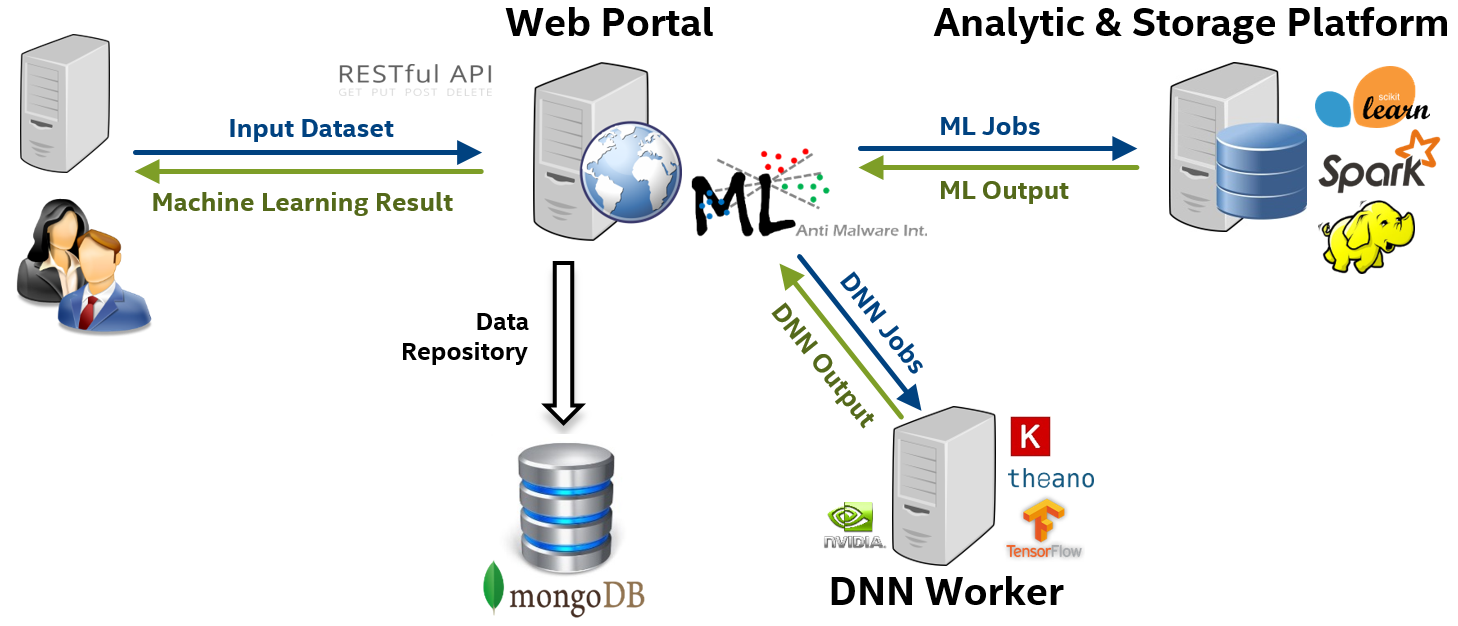
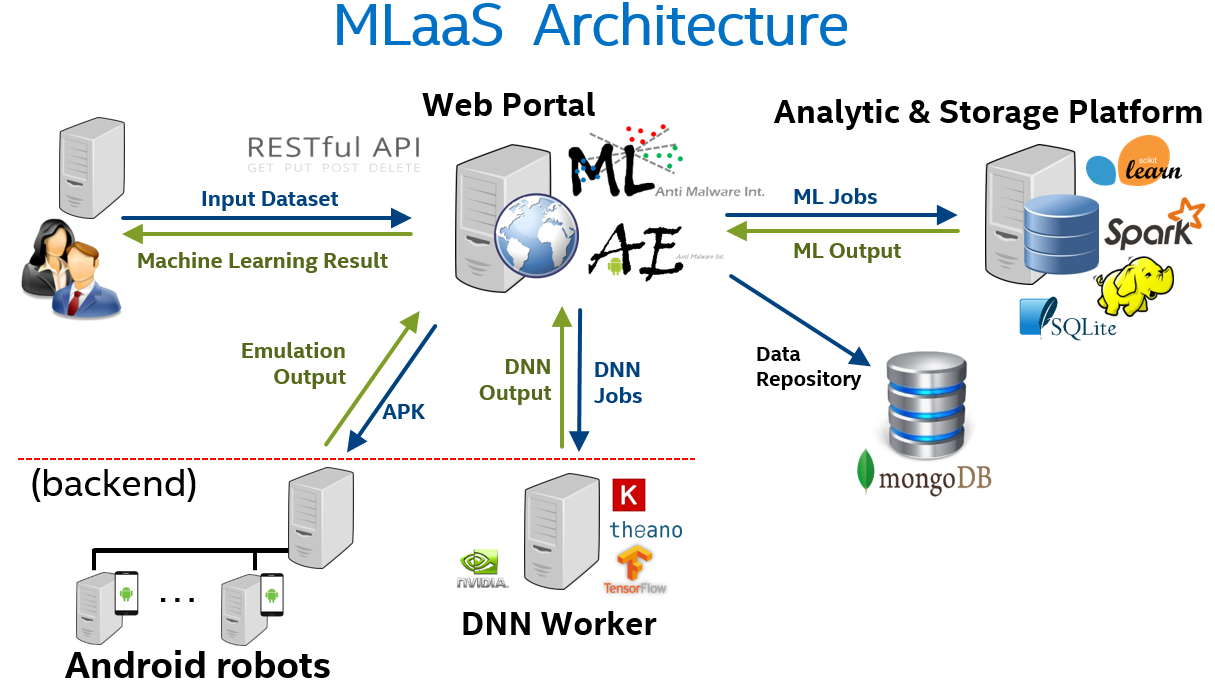
add graphs

diff --git a/README.md b/README.md
@@ -18,10 +18,16 @@ It demos adversarial ML and countermeasures.
 * Copy git folder tree to Django website folder 'myml'
 * Modify app.config, myml/settings.py, atdml/settings.py for Hadoop/Spark/web/MongoDB hostnames
 
+## Design
+### Architecture
+![arch](../master/atdml/static/atdml/img/mlaas_arch_gpu.png)
+### Software Stack
+![arch](../master/atdml/static/atdml/img/sw_stack.png)
+
+
 ## License
 This project is licensed under the Apache 2.0 
 
-![arch](../master/atdml/static/atdml/img/mlaas_arch_gpu.png)
 
 ## Acknowledgements
 * TBD
